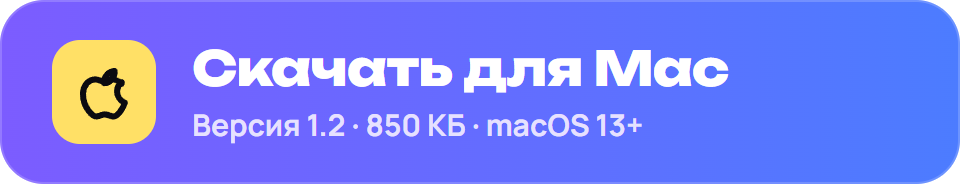
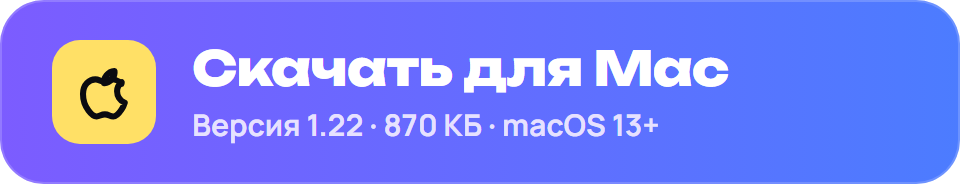
README и страница скачивания: Mac 1.22, IPv6 на Mac вручную

Changed region(s): [[0.3438, 0.5978, 0.6875, 0.7609]]

diff --git a/docs/index.html b/docs/index.html
@@ -62,7 +62,7 @@ footer{margin-top:52px;padding-top:22px;border-top:1px solid rgba(255,255,255,.1
 </head>
 <body>
 <div class="wrap">
- <div class="pill"><i class="dot"></i>Версия 1.2 · бесплатно · открытый код</div>
+ <div class="pill"><i class="dot"></i>Версия 1.22 · бесплатно · открытый код</div>
  <h1>ChatGPT, Claude и&nbsp;Gemini <span class="hl">одной кнопкой</span></h1>
  <p class="lead">Сервисы пишут «недоступно в вашей стране»? Программа одной кнопкой включает Smart DNS, и они открываются как обычно. Банки, Госуслуги и всё остальное идут напрямую, как раньше.</p>
 
@@ -112,7 +112,7 @@ footer{margin-top:52px;padding-top:22px;border-top:1px solid rgba(255,255,255,.1
  if(isMac){
   document.getElementById('dl').href=mac;
   document.getElementById('dl-title').textContent='Скачать для Mac';
-  document.getElementById('dl-sub').textContent='Версия 1.2 · 850 КБ · macOS 13 и новее';
+  document.getElementById('dl-sub').textContent='Версия 1.22 · 870 КБ · macOS 13 и новее';
   document.getElementById('alt').innerHTML='Есть версия <a href="'+win+'">для Windows</a> · <a href="https://github.com/neiroseti-ai/hb-ai-xbox-dns">исходный код на GitHub</a>';
   document.getElementById('steps-win').hidden=true; document.getElementById('steps-mac').hidden=false;
  }

diff --git a/docs/button_mac.html b/docs/button_mac.html
@@ -11,5 +11,5 @@ html,body{width:480px;height:92px;background:transparent}
 .t span{font-family:'Manrope',sans-serif;font-weight:700;font-size:15px;color:#e6e1ff;margin-top:3px}
 </style></head><body>
 <div class="b"><div class="ic"><svg width="28" height="28" viewBox="0 0 24 24" fill="none" stroke="#0b0b10" stroke-width="2.6" stroke-linecap="round" stroke-linejoin="round"><path d="M16.5 3c-1.2.1-2.6.8-3.4 1.8-.7.9-1.3 2.2-1.1 3.4 1.3.1 2.6-.7 3.4-1.7.8-1 1.3-2.2 1.1-3.5z"/><path d="M19.5 8.5c-1.5-1.8-4-2-5-1.9-1.4.1-2.4.8-3 .8-.7 0-1.9-.8-3.2-.8-2.6 0-5.3 2.2-5.3 6.3 0 2.6 1 5.3 2.3 7 1.1 1.5 2.1 2.6 3.5 2.6 1.4-.1 1.9-.9 3.6-.9 1.7 0 2.1.9 3.6.9 1.5 0 2.5-1.4 3.4-2.8.7-1 1.2-2 1.5-3.1-2.1-.9-3.3-2.9-3.3-4.9 0-1.6.8-3 2-3.9z"/></svg></div>
-<div class="t"><b>Скачать для Mac</b><span>Версия 1.2 · 850 КБ · macOS 13+</span></div></div>
+<div class="t"><b>Скачать для Mac</b><span>Версия 1.22 · 870 КБ · macOS 13+</span></div></div>
 </body></html>
